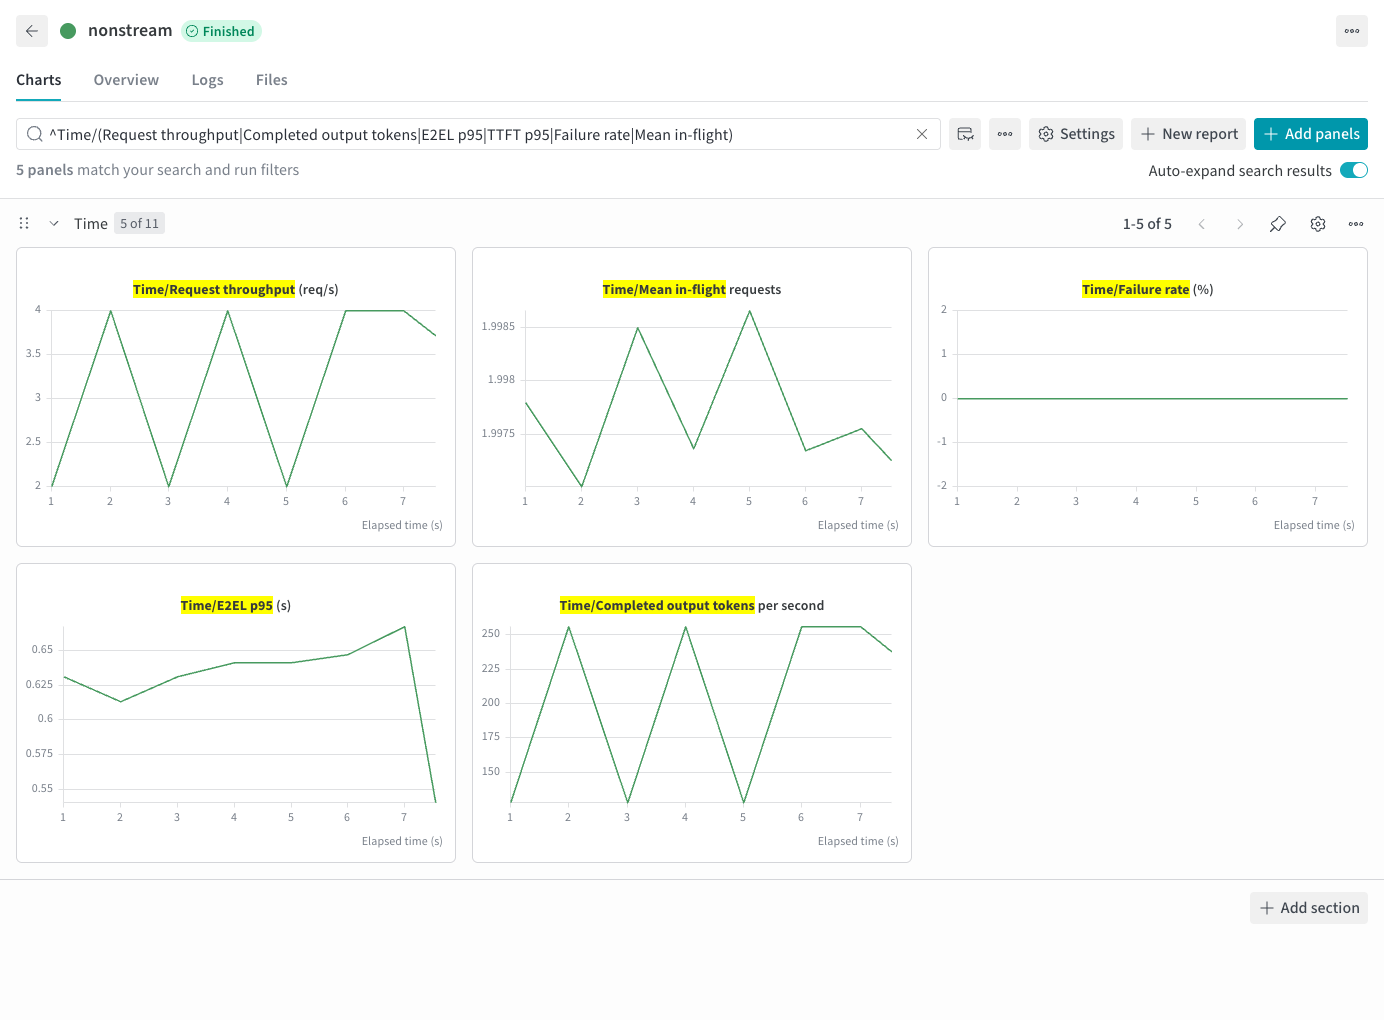
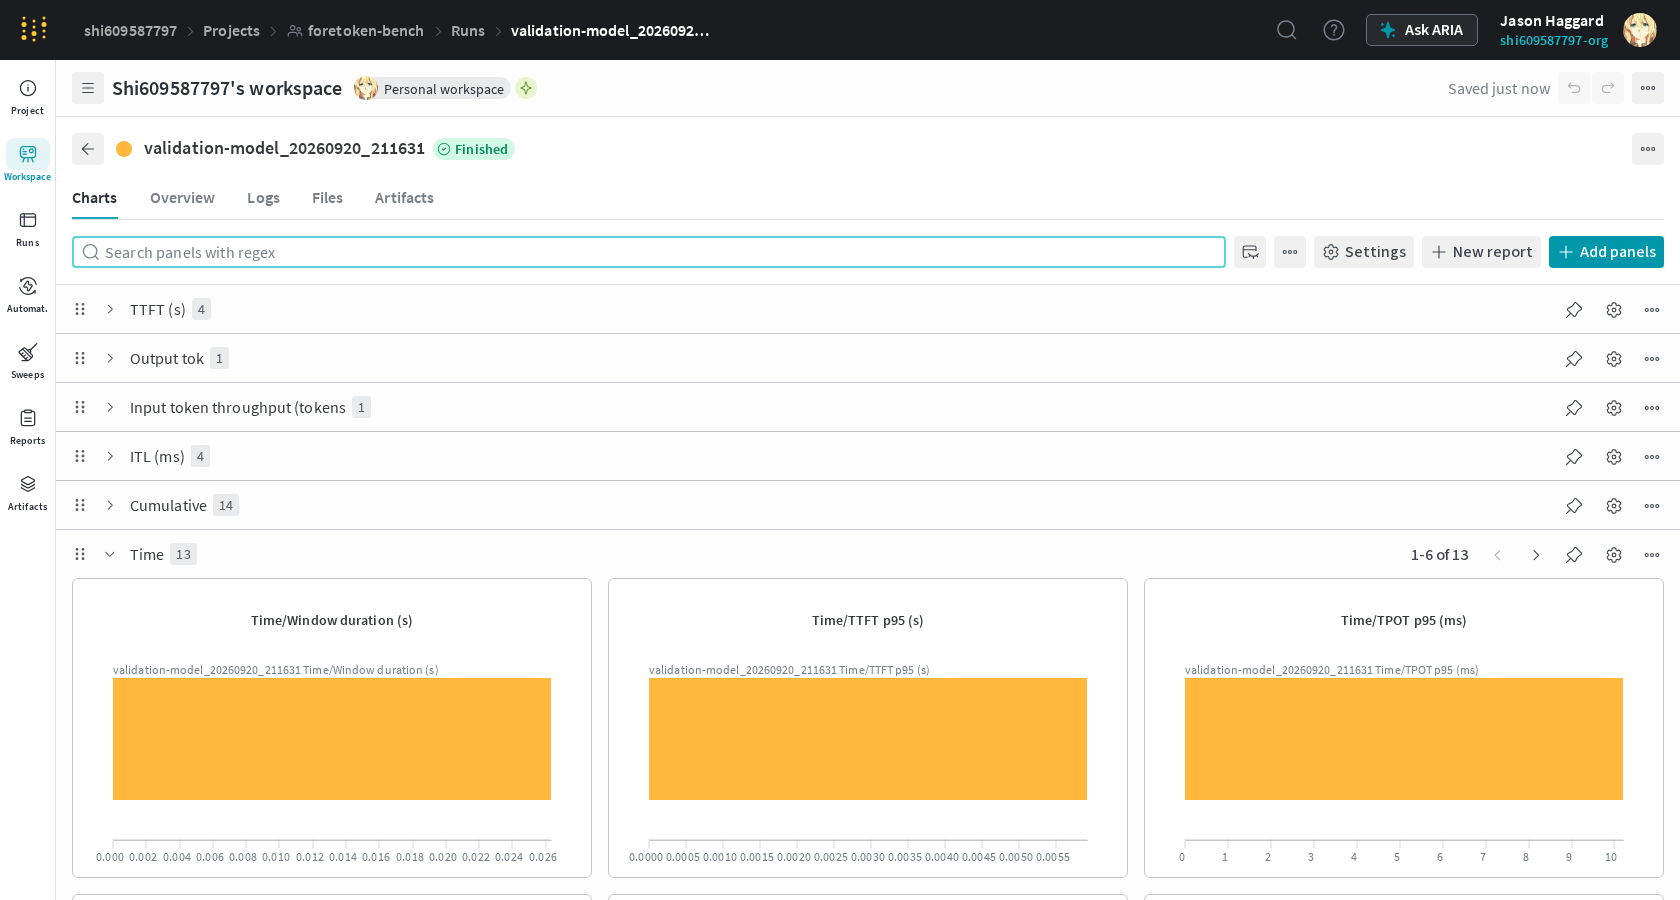
docs(bench): add current W&B charts screenshot

diff --git a/benchmarks/docs/coomon_commands/non-streaming.md b/benchmarks/docs/coomon_commands/non-streaming.md
@@ -14,3 +14,5 @@ foretoken bench examples/quickstart \
 The service returns the complete response at once. End-to-end latency and throughput remain available; TTFT, TPOT, and ITL are not reported.
 
 ![Recorded CLI output](../imgs/nonstream-cli.png)
+
+![W&B Charts](../imgs/nonstream-wandb.png)

diff --git a/benchmarks/docs/coomon_commands/non-streaming_zh.md b/benchmarks/docs/coomon_commands/non-streaming_zh.md
@@ -14,3 +14,5 @@ foretoken bench examples/quickstart \
 服务一次返回完整回答。仍统计端到端耗时和吞吐量，不报告 TTFT、TPOT 和 ITL。
 
 ![命令行输出示例](../imgs/nonstream-cli.png)
+
+![W&B Charts](../imgs/nonstream-wandb.png)
